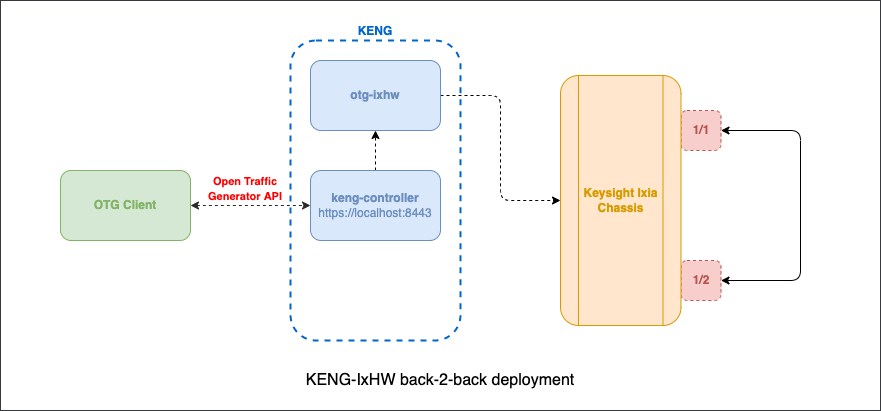
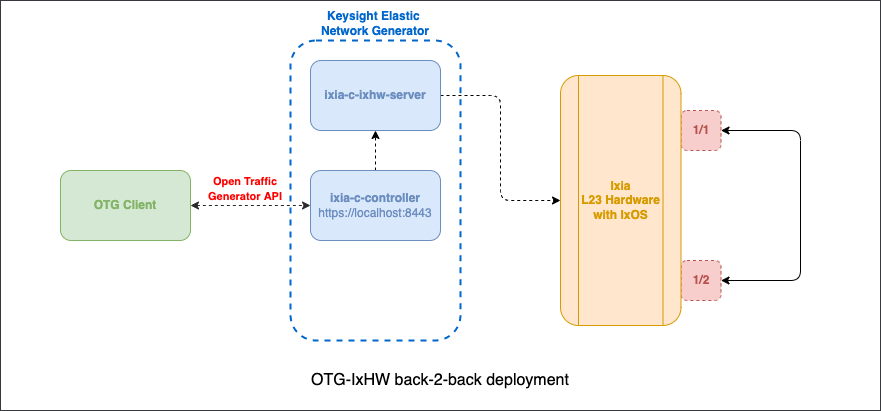
renaming

diff --git a/hw/ixhw-b2b/README.md b/hw/ixhw-b2b/README.md
@@ -1,7 +1,7 @@
 # OTG with Ixia L23 Hardware: back-to-back setup
 
 ## Overview
-This example demonstrates how the OTG API can be used to control [Keysight/Ixia L23 Network Test Hardware](https://www.keysight.com/us/en/products/network-test/network-test-hardware.html). The same [Keysight Elastic Network Generator](https://www.keysight.com/us/en/products/network-test/protocol-load-test/keysight-elastic-network-generator.html) controller that serves as the OTG API Endpoint for [Ixia-c software test ports](https://github.com/open-traffic-generator/otg-examples/tree/main/docker-compose/cpdp-b2b) can be used with the hardware test ports. Such deployment model requires to use `ixia-c-ixhw-server` container image that provides an interface between the controller and the hardware test ports. See the diagram below that illustrates the components of such setup:
+This example demonstrates how the OTG API can be used to control [Keysight/Ixia L23 Network Test Hardware](https://www.keysight.com/us/en/products/network-test/network-test-hardware.html). The same [Keysight Elastic Network Generator](https://www.keysight.com/us/en/products/network-test/protocol-load-test/keysight-elastic-network-generator.html) `ixia-c-controller` that serves as the OTG API Endpoint for [Ixia-c software test ports](https://github.com/open-traffic-generator/otg-examples/tree/main/docker-compose/cpdp-b2b) can be used with the hardware test ports. Such deployment model requires to use `ixia-c-ixhw-server` container image that provides an interface between the controller and the hardware test ports. See the diagram below that illustrates the components of such setup:
 
 ![Diagram](./diagram.png)
 
@@ -48,7 +48,7 @@ This example demonstrates how the OTG API can be used to control [Keysight/Ixia 
     cd otg-examples/docker-compose/b2b
     ```
 
-## Deploy KENG Controller
+## Deploy Keysight Elastic Network Generator
 
 1. Launch the deployment
 
@@ -56,7 +56,7 @@ This example demonstrates how the OTG API can be used to control [Keysight/Ixia 
     sudo -E docker-compose up -d
     ```
 
-2. Make sure you have two containers running: `ixhw-b2b_keng-controller_1` and `ixhw-b2b_otg-ixhw_1`
+2. Make sure you have two containers running: `ixhw-b2b_ixia-c-controller_1` and `ixhw-b2b_ixia-c-ixhw-server_1`
 
     ```Shell
     sudo docker ps
@@ -118,9 +118,9 @@ This example demonstrates how the OTG API can be used to control [Keysight/Ixia 
     ./snappi/otg-flows.py -m flow
     ```
 
-## Destroy the KENG Controller
+## Destroy the Keysight Elastic Network Generator deployment
 
-To stop the KENG Controller:
+To stop the deployment, run:
 
 ```Shell
 sudo docker-compose down
